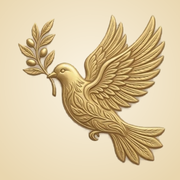
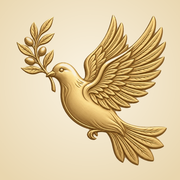
feat: new golden dove (without body ornament) everywhere
Favicon, touch and home-screen icons (maskable too), the in-app mark, bot
avatars and the default share image come from the owner's new dove via
scripts/build-brand-assets.py (cut-out threshold suited to the warmer paper).
Icon and share-image URLs carry ?v=2 so caches refresh.

Changed region(s): [[0.0833, 0.0833, 0.9444, 0.9167]]

diff --git a/app/utils/seo.ts b/app/utils/seo.ts
@@ -7,7 +7,7 @@ import { resolveContentCategoryId, type ContentCategoryId } from "../../shared/t
 
 export const SITE_URL = "https://apostolic.am";
 export const SITE_NAME = "Հոգևոր ժառանգություն";
-export const SITE_IMAGE = `${SITE_URL}/og-image.png`;
+export const SITE_IMAGE = `${SITE_URL}/og-image.png?v=2`;
 const ALTERNATE_NAMES = ["Apostolic", "apostolic.am", "Հայ Առաքելական Եկեղեցու գրադարան", "Armenian Apostolic Church Library"];
 
 const SECTION_IMAGES: Record<ContentCategoryId, string> = {
@@ -110,7 +110,7 @@ export const organizationJsonLd = {
   name: SITE_NAME,
   alternateName: ALTERNATE_NAMES,
   url: `${SITE_URL}/`,
-  logo: `${SITE_URL}/icon-512.png`,
+  logo: `${SITE_URL}/icon-512.png?v=2`,
   description: "Անկախ թվային գրադարան՝ նվիրված Հայաստանյայց Առաքելական Սուրբ Եկեղեցու հոգևոր ժառանգությանը (Եկեղեցու պաշտոնական կայքը չէ)։",
   sameAs: ["https://t.me/armenian_apostolic_church", "https://t.me/armenian_apostolic_church_bot"],
 };

diff --git a/app/routes/material.tsx b/app/routes/material.tsx
@@ -39,7 +39,7 @@ export function meta({ loaderData }: Route.MetaArgs) {
   // own picture, else the section's.
   const picture = cardImage(loaderData.origin, path, material.editedAt ?? material.publishedAt)
     ?? material.media.find((asset) => asset.kind === "photo")?.url ?? material.media.find((asset) => asset.kind === "video" && asset.thumbnailUrl)?.thumbnailUrl
-    ?? `${loaderData.origin}${sectionImage(material.categoryId, material.categoryName) ?? "/og-image.png"}`;
+    ?? `${loaderData.origin}${sectionImage(material.categoryId, material.categoryName) ?? "/og-image.png?v=2"}`;
   const description = describe(material.contentText || material.captionText, `${material.title}՝ ${material.categoryName}, Հայ Առաքելական Սուրբ Եկեղեցու հոգևոր գրադարան։`, material.title);
   const categoryPath = sectionPath({ id: material.categoryId, name: material.categoryName, slug: material.categorySlug });
   return seoMeta({

diff --git a/app/root.tsx b/app/root.tsx
@@ -76,10 +76,10 @@ const initialThemeScript = `(() => {
 })();`;
 
 export const links: Route.LinksFunction = () => [
-  { rel: "icon", href: "/favicon.ico", sizes: "any" },
-  { rel: "icon", type: "image/png", sizes: "64x64", href: "/favicon-64.png" },
-  { rel: "apple-touch-icon", href: "/apple-touch-icon.png" },
-  { rel: "manifest", href: "/manifest.webmanifest" },
+  { rel: "icon", href: "/favicon.ico?v=2", sizes: "any" },
+  { rel: "icon", type: "image/png", sizes: "64x64", href: "/favicon-64.png?v=2" },
+  { rel: "apple-touch-icon", href: "/apple-touch-icon.png?v=2" },
+  { rel: "manifest", href: "/manifest.webmanifest?v=2" },
 ];
 
 export async function loader({request}: Route.LoaderArgs) {

diff --git a/app/routes/category.tsx b/app/routes/category.tsx
@@ -100,7 +100,7 @@ export function meta({ loaderData }: Route.MetaArgs) {
     description: `${CATEGORY_DESCRIPTIONS[kind] ?? `${category.name}՝ Հայ Առաքելական Սուրբ Եկեղեցու հոգևոր գրադարանում։`} Հայ Առաքելական Սուրբ Եկեղեցու հոգևոր գրադարան։`,
     path,
     origin: loaderData.origin,
-    image: `${loaderData.origin}${sectionImage(category.id, category.name) ?? "/og-image.png"}`,
+    image: `${loaderData.origin}${sectionImage(category.id, category.name) ?? "/og-image.png?v=2"}`,
     jsonLd: [breadcrumbJsonLd([{ name: SITE_NAME, path: "/" }, { name: category.name, path }])],
   });
 }

diff --git a/app/routes/og-card.ts b/app/routes/og-card.ts
@@ -15,7 +15,7 @@ export async function loader({ params }: Route.LoaderArgs) {
     ? await (env as unknown as { MEDIA: R2Bucket }).MEDIA.get(ogCardKey(path)).catch(() => null)
     : null;
   if (!object) {
-    const fallback = sectionImage(categoryForSection(params.section)) ?? "/og-image.png";
+    const fallback = sectionImage(categoryForSection(params.section)) ?? "/og-image.png?v=2";
     return new Response(null, { status: 302, headers: { location: fallback, "cache-control": "public, max-age=300" } });
   }
   return new Response(object.body, {

diff --git a/scripts/build-brand-assets.py b/scripts/build-brand-assets.py
@@ -26,8 +26,8 @@ def cut_out(image: Image.Image) -> Image.Image:
     rgb = np.asarray(image.convert("RGB")).astype(np.float32) / 255
     high, low = rgb.max(axis=2), rgb.min(axis=2)
     saturation = np.where(high > 0, (high - low) / np.maximum(high, 1e-6), 0)
-    # Gold: saturated and not near-white. Paper (and its soft gray shadow) is almost unsaturated.
-    alpha = smoothstep(0.13, 0.26, saturation)
+    # Gold is strongly saturated (over 0.5); the warm cream paper and its shadow stay under 0.25.
+    alpha = smoothstep(0.30, 0.42, saturation)
     mask = Image.fromarray((alpha * 255).astype(np.uint8))
     # Close pinholes inside the bird (bright highlights), then soften the edge by a pixel.
     mask = mask.filter(ImageFilter.MaxFilter(5)).filter(ImageFilter.MinFilter(5))
@@ -93,6 +93,21 @@ def main():
     small = compose(dove, 256, "none", 0.98, False)
     small.save(PUBLIC / "favicon.ico", sizes=[(16, 16), (32, 32), (48, 48), (64, 64)])
     small.resize((64, 64), Image.LANCZOS).save(PUBLIC / "favicon-64.png", optimize=True)
+
+    # Maskable home-screen icons: flat paper (the launcher draws its own shape), bird inside the
+    # central safe circle.
+    paper = (236, 223, 194, 255)
+    maskable = Image.new("RGBA", (512, 512), paper)
+    maskable.alpha_composite(compose(dove, 512, "none", 0.62, False))
+    maskable.save(PUBLIC / "icon-maskable-512.png", optimize=True)
+    maskable.resize((192, 192), Image.LANCZOS).save(PUBLIC / "icon-maskable-192.png", optimize=True)
+
+    # The site's default link preview: the bird on the left, the name and address on the right stay.
+    og = Image.open(PUBLIC / "og-image.png").convert("RGBA")
+    og.paste(paper, (60, 120, 440, 520))
+    bird = compose(dove, 310, "none", 1.0, False)
+    og.alpha_composite(bird, (100, 160))
+    og.convert("RGB").save(PUBLIC / "og-image.png", optimize=True)
 
     # In-app mark (menu button): transparent, 192 px tall is plenty for a 25–60 px element.
     mark_height = 192
